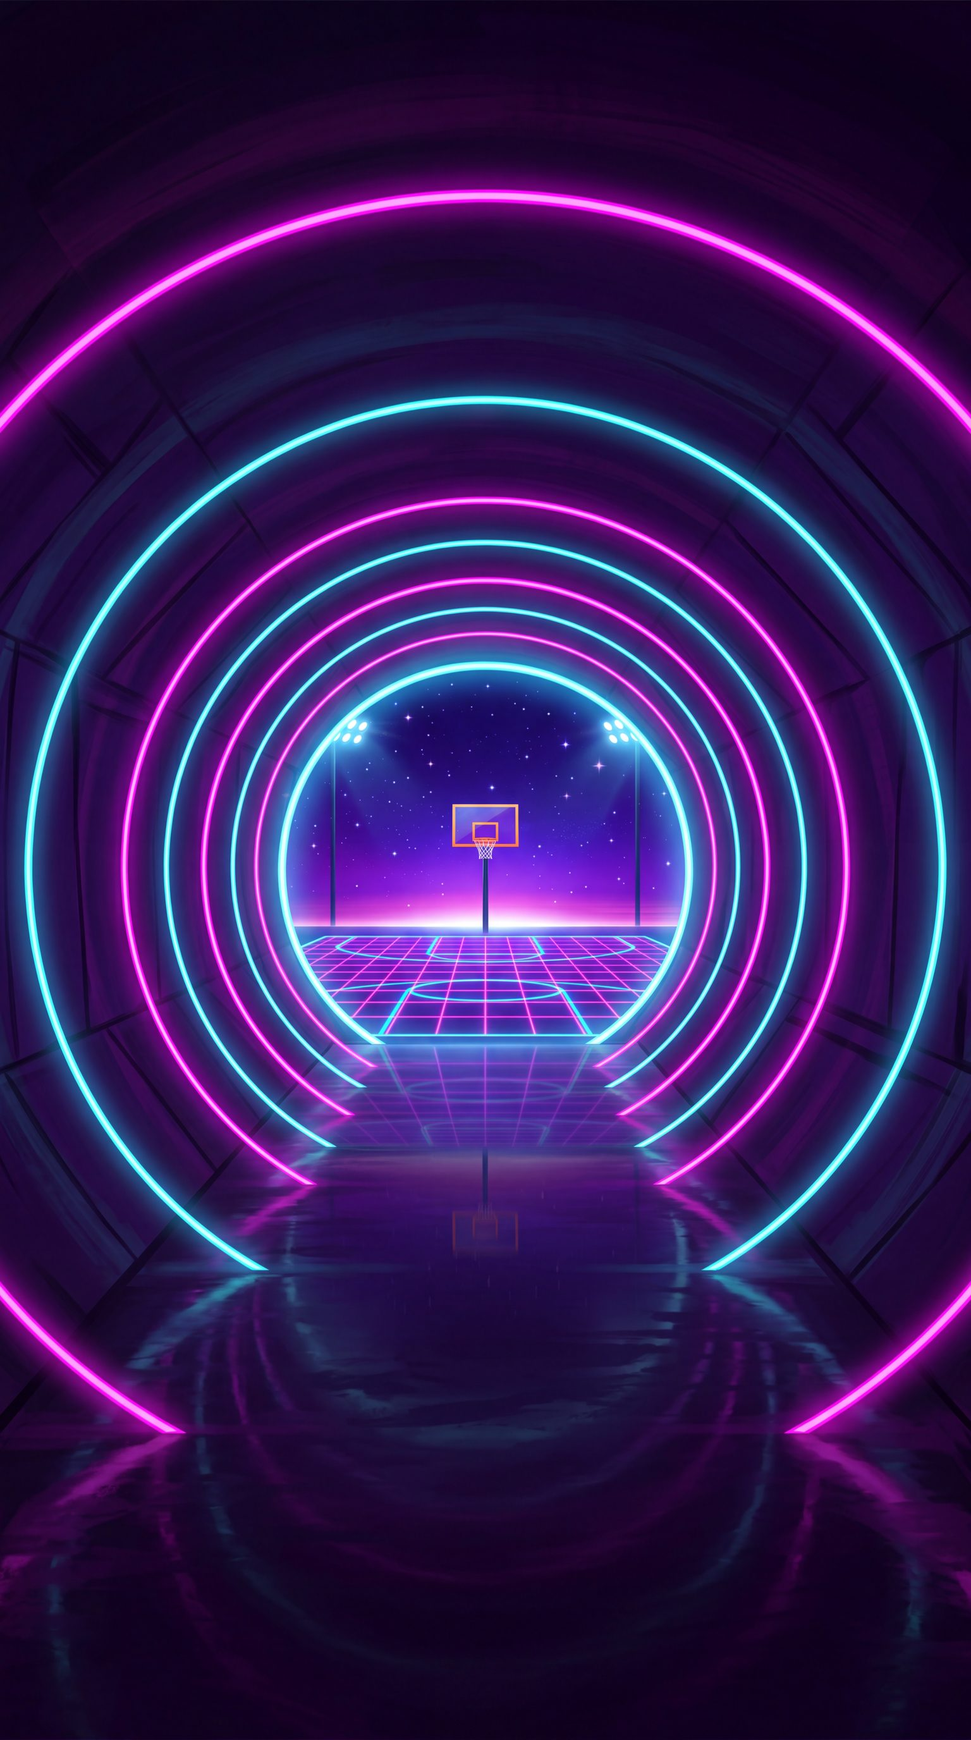
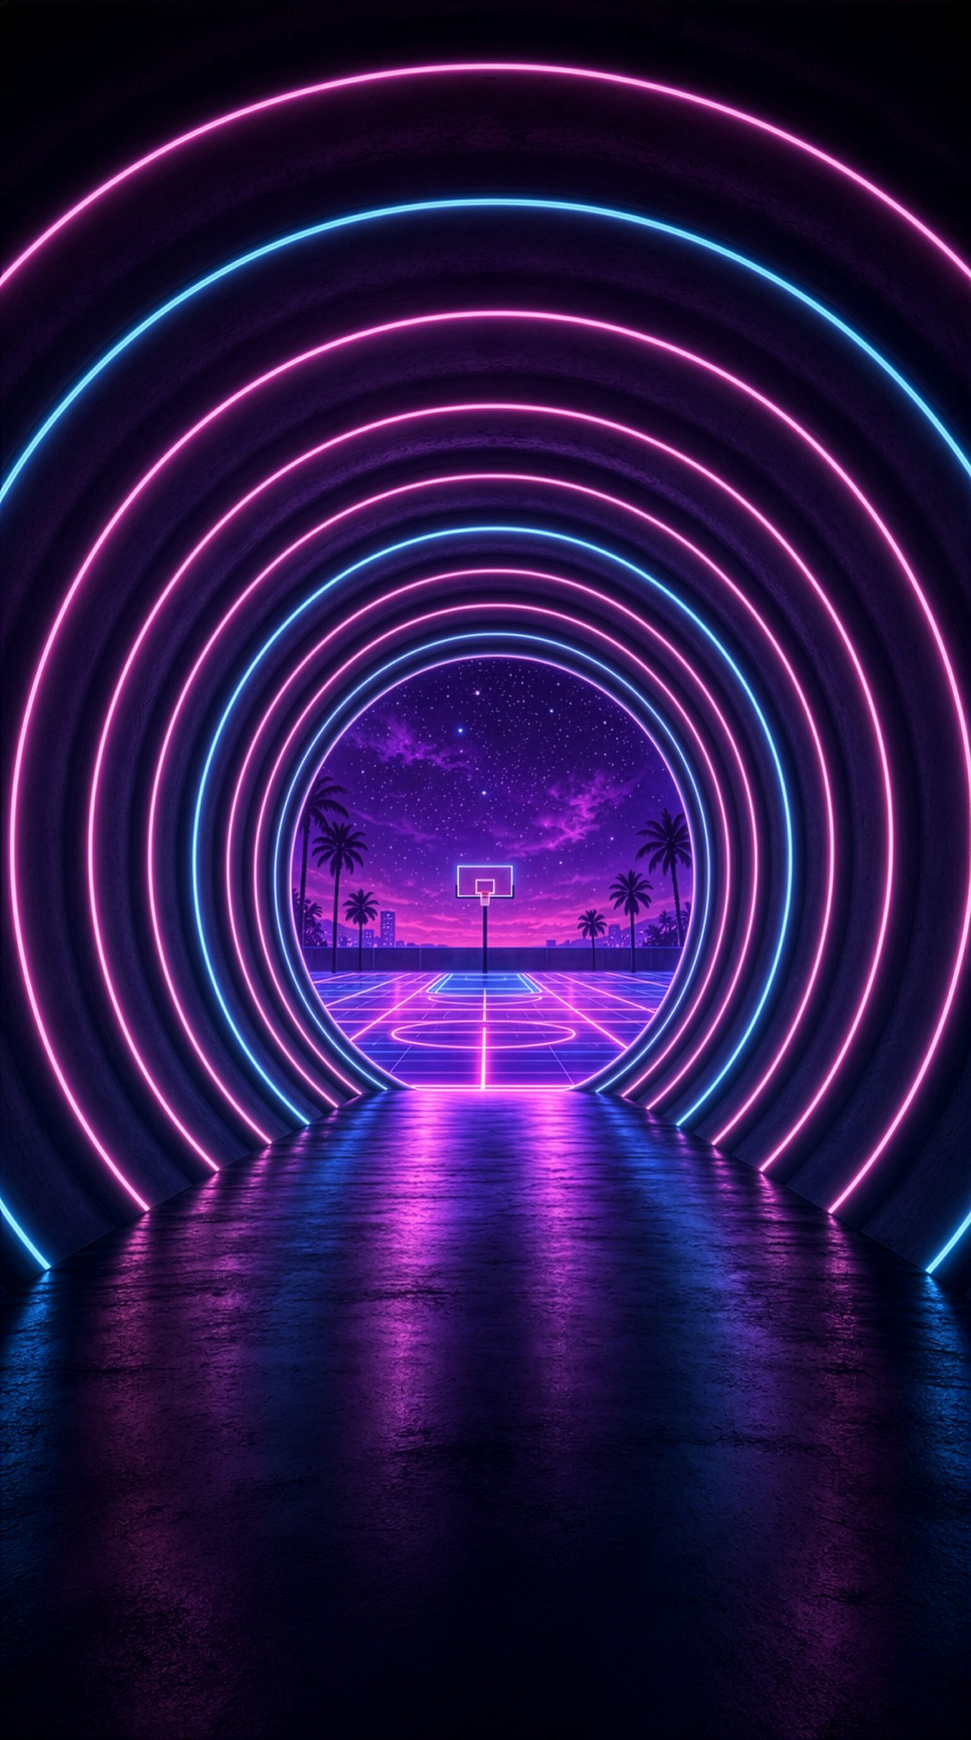
Tunnel round two: every slot at full size, the alts boarded
His fixed folder (19 files, all 3072 on the short side) replaces the
twelve interim preview-size tunnels. The sixteen files named for a slot
land as that slot's pick at the delivery standard; the three alts wait
on the round-two board, which shows WAS / NOW / ALT per slot with the
push trade-off in source pixels across the mouth. Record: COURT-SKINS
picks table, row 215, changelog, PLACES, lesson 1.3aa.

Claude-Session: https://claude.ai/code/session_01Y29K1DtgAMPnfoUHMesWe3

diff --git a/TODO.md b/TODO.md
@@ -80,7 +80,7 @@ with a note asking, never left out.
 | 103 | rows 18+19 | **Rebuild the gameplay screen from scratch.** What does a player need to KNOW and DO at each moment, surfaced clean, polished and intuitive | me | doing | Aaron 08-22 on five live screenshots: *"it's the whole gameplay visuals that need to be redone... it's unclear what's a button, what's a notification, I mean it's chaos... not being afraid to start from scratch."* Replaces items 4 and 5, which shipped 08-19 and did not fix it, and absorbs 102, the clipped action dock. Six named defects, the three open questions from the 08-22 comparison, and the moment-by-moment method are all in V0 row 32. **The option LIST goes to him before any option is built.** Related rows that should close when this lands: 34, 35, 36, 38, 41. **In flight 08-22:** the moment inventory is published (V0 row 32); the HUD is the first surface, with pause-as-symbol vs pause-as-word and the replay states on his desk at <https://claude.ai/code/artifact/0ef25906-9fb6-4352-9d1b-ee09b0c83b9f>, **RULED 08-22: A, the symbol; roomy inset; 64px on desktop; spent states approved.** Not yet shipped, deliberately: the phone dock holds only two controls, so shipping pause and replay before music, help and the coach have homes would strand them. The coach corner is the next pick, at <https://claude.ai/code/artifact/2a585c2e-0ff2-4905-8ee6-9f7076fe29a7>. HUD board: <https://claude.ai/code/artifact/0ef25906-9fb6-4352-9d1b-ee09b0c83b9f>. **SHIPPED 08-22: the in-game music button**, on his pick of B and resume-from-position. Gate `tools/music-check.mjs`, 23 checks a viewport, three sabotages. **SHIPPED 08-24: the two-control HUD as ruled** (pause symbol A, replay beside it with grey/orange states, roomy inset, 64px desktop), the ⋯ tray and the dock's ♪ and whistle retired with it; gate `tools/hud-check.mjs`, 24 checks, three sabotages, comparison at <https://claude.ai/code/artifact/a4ededa4-abfb-40ab-97fd-5d22c2a80bf3>. Still open in this item: the action dock/strip, the instruction line, the notification chaos, the pause-menu staircase and confirms. **Paused 08-24 on his direction:** the action-strip option list was shown and he answered with a bigger plan, *"I want to walk through full gameplay and build this the way I want it to be"*, AFTER the polish block (111) lands. The five named options and his coming alternatives go into that walkthrough **HIS ORDER, RULED 08-28** (*"I think the toss up should be part of the gameplay rebuild, and that's all"*, on the recommended order): this row is the SECOND thing on the road and it CARRIES THE TOSS-UP: rows 198 (the toss-up teaches by showing, not bullets) and 13 (the buzzers, comparison owed) ride inside this rebuild rather than queueing behind it, because they are the same screen at the same moment. 198 came up out of the after-the-twenty list to do it. **08-28, THE WALKTHROUGH BEGINS**: his 08-24 promise ("I want to walk through full gameplay and build this the way I want it to be") starts now, screen by screen, his protocol *"this is how we will work, step by step"* — he describes a piece, I confirm, he gives the next. Live capture: `design/GAMEPLAY-WALKTHROUGH-2026-08-28.md`. Nothing builds until a piece is confirmed AND he says build it. Stop 1 ruled: keep the toss-up "How it works" card, redesign for digestibility (folds into 198's replace-the-bullets ask). Stop 2 ruled: a NEW coach popup right after it offering a sample toss-up test run, **CPU and Local only, never online** (consistent with the standing netOn() coach law). Stop 3 CONFIRMED 08-28: nine beats (countdown explained first, both buzzers appear the instant the card does with bottom always meaning "you", the coach explains before the question types, the question types itself letter by letter, coach hands off to the buzzer, coach highlights the right answer so the sample can't be missed, result, "ready for the real thing?"). **His scoping ruling on the typewriter effect: buzz-race moments ONLY** (toss-up and the tip-off, which "works the exact same way"), *"nothing else is a timing competition so those can show up normally"* — every other question card keeps its current instant-show. Verified against the shipped game: `tuResolveAnswer` (game.js:6626) already sends a miss straight to the other side with no rebound question, which matches his mid-thought ruling exactly. Full capture: `design/GAMEPLAY-WALKTHROUGH-2026-08-28.md`. **08-28, the intro cinematic**: his ask (tunnel walk-out to a bright light, sky-to-court drop, center-court close-up with a ref between two players, into the confirmed toss-up beats, a Skip throughout) confirmed as medium split: *"source the art and you build the movement is correct."* A rough-pass preview shipped with stand-in art proving the technique, verified (zero errors, Skip interrupts correctly, reduced-motion completes): <https://claude.ai/code/artifact/569949f9-525e-4ac3-8289-5a27167a35fe>. His catch on the first pass, same day: the sky view cut to the side view ("I know the court can rotate so I thought it was possible") and he's right, so the demo was rebuilt as ONE continuous camera (the court a 3D plane tilting near-overhead to near side-on, figures counter-rotating as billboards, the buzzer beats playing OVER the landed side view) and republished at the same URL, verified again end to end. **RULED 08-28, the gate on further stops**: *"I want to build up to this point first and see if I am happy with the results before we move forward to doing more"* — the confirmed pieces (Stop 2's offer, Stop 3's nine beats, the buzz-race typewriter) get built into the real game on the branch for him to play and judge; the walkthrough pauses until he has. The cinematic stays a demo until he sources the art; Stop 1's redesign still owes its option round. **BUILT 08-29, on the branch**: the offer + all nine beats (coach module #tuSam, drill-shaped: own DOM, own veil, no seen-key burn on steps) and the typewriter on the real toss-up + tip-off reveals (typeInto, revealAt at type-start, buzz mid-type fast-forwards). Gate tools/sample-check.mjs (34 checks, netgate sabotage proven), fleet 43 gates green, audit PASS. A four-skeptic adversarial pass found three real bugs, all fixed: the CPU offer self-aborting on the brains-to-game handover and burning its key; the practice card not typing under its own freeze; online reduce-motion winning every race (online keeps the whole-card reveal now). One latent shipped bug fixed on the way: the jumbotron hide was a raw setTimeout while runTipoff rode fTimeout, so any freeze in that window let the coach teach a possession before the jump ball. FIVE FLAGS on his desk in design/GAMEPLAY-WALKTHROUGH-2026-08-28.md § BUILT 08-29 (real buzzer geometry vs the lesson · once-per-phone · CPU placement · run-again scope · online whole-card). **LIVE 08-30** on his word *"can we ship everything we have done so far live"*: main fast-forwarded 79 commits, Pages verified file by file (222 of 222 published files byte-identical to the tested build). **FLAGS ANSWERED 08-31** (session record BUILD § 6k): geometry law ruled onto row 13 and DESIGN § 8a; run-again ruled, skip-out filed as row 212; online whole-card locked in DESIGN § 8a; flag 2 RULED 08-31 in the next round (once-ever stays, his "I agree with you"); flag 3 shown again 08-31 as a three-frame CPU-road strip, still his. His direction: *"Then we carry on with the gameplay rebuild."* Sequence confirmed: sample, then the entrance cinematic (waiting on his sourced art), then the real jump ball typing over the landed side view. **THE DOME SHIPPED 08-31** (rows 13+214, changelog): all five flags ruled and the buzz races rebuilt whole: stacked domes, the sandwich, the loud buzz, the CPU road's own How-it-works card. Still riding this rebuild: 198 (Stop 1 digestibility), 212 (the practice skip-out), 215 (the tunnel art on his generations). |
 | 198 | — | **The toss-up teaches by showing, not bullets**: first run gets a brief slideshow or a sample toss-up in place of the bullet-point instructions | me | open | his ask 08-26: *"the toss up instructions should have a brief slideshow or sample toss up as the instructions or first time run, not bullet points to read"*; same show-don't-tell spirit as the rulebook redesign (110), the current bullets live in .tu-how **HIS ORDER, RULED 08-28** (*"I think the toss up should be part of the gameplay rebuild, and that's all"*, on the recommended order): **PART OF ROW 103**, his words: the toss-up belongs to the gameplay rebuild. Promoted out of the after-the-twenty list and parked directly under 103; it does not get its own turn, it gets designed inside that one, next to row 13. |
 | 212 | — | A way out of the practice mid-run: keep all nine beats, add a control that lets the player leave once they feel they have it (or bailed into it by accident) | me | open | **RULED 08-31** (flag 4): *"keep all nine, but introduce a button that allows the player to skip out of the process if they feel like they got it midway thru or if they restart in accident."* Changes how the practice looks, so the affordance gets an option list first; the medium question says check the shipped exits before building one (the coach cards' quiet `.ct-off` underline link, the `#skipveil` confirm). Leaving must release the freeze and hand back cleanly on both roads, and must NOT hand back the once-key (leaving midway is a choice, not the world moving on). Gate: sample-check grows the exit checks. |
-| 215 | — | **Generate the entrance tunnel art**, one per court family, both aspects, portrait upscaled 2x for the push-in | Aaron | blocked | His ask 08-31: *"for the entrance I need prompts... one prompt for each entry art, so one for blacktop, one for hardwood, etc."* Delivered same turn: five Firefly pastes (Hardwood, Blacktop, Neon, Cosmic, Underwater) in both aspects, every box measured under the 1024 cap, b-look swap lines included; Classic deliberately stays code-drawn (its family identity is the no-photo CLEAN court, flagged for his overrule). Home: design/COURT-SKINS.md § THE ENTRANCE TUNNELS. Copy-button page: <https://claude.ai/code/artifact/1b2693ce-1694-4f22-89a8-62c49f5447b6>. **THE ART LANDED 09-03**: his full four-model sitting on Drive, 86 takes across all 20 slots (5 families × 2 aspects × looks a AND b, the b-swaps generated too). Pulled, measured (41 of 86 clear the 2400px zoom floor; the raw Firefly and every gpt-image output sit under it), inspected for people/text/off-centre/softness, and boarded numbered for his picks: <https://claude.ai/code/artifact/70da2273-f14b-4b58-b81d-fa509ced78ae>. Two set-level catches on the board: most Blacktop gates are drawn closed and padlocked; every Hardwood take that shows the arena shows a crowd through the mouth. **HIS TWENTY PICKS 09-03** (changelog carries the numbers): all twenty landed in docs/play/assets/courts/ as tunnel-<family>-<look>-p/w.jpg, eight from 3072-class masters, **twelve INTERIM at 768x1376** (every gpt-image pick: the preview-size download) awaiting his full-size re-download from Firefly: hardwood-p-a, hardwood-p-b, hardwood-w-a, hardwood-w-b, blacktop-p-a, blacktop-p-b, blacktop-w-b, neon-p-b, neon-w-a, underwater-p-b, underwater-w-a, underwater-w-b. Pick 23 (blacktop-p-b) shows a closed, padlocked gate. The art is in place; the cinematic build (row 103) can start on it and the twelve swap in when they arrive. |
+| 215 | — | **Generate the entrance tunnel art**, one per court family, both aspects, portrait upscaled 2x for the push-in | Aaron | blocked | His ask 08-31: *"for the entrance I need prompts... one prompt for each entry art, so one for blacktop, one for hardwood, etc."* Delivered same turn: five Firefly pastes (Hardwood, Blacktop, Neon, Cosmic, Underwater) in both aspects, every box measured under the 1024 cap, b-look swap lines included; Classic deliberately stays code-drawn (its family identity is the no-photo CLEAN court, flagged for his overrule). Home: design/COURT-SKINS.md § THE ENTRANCE TUNNELS. Copy-button page: <https://claude.ai/code/artifact/1b2693ce-1694-4f22-89a8-62c49f5447b6>. **THE ART LANDED 09-03**: his full four-model sitting on Drive, 86 takes across all 20 slots (5 families × 2 aspects × looks a AND b, the b-swaps generated too). Pulled, measured (41 of 86 clear the 2400px zoom floor; the raw Firefly and every gpt-image output sit under it), inspected for people/text/off-centre/softness, and boarded numbered for his picks: <https://claude.ai/code/artifact/70da2273-f14b-4b58-b81d-fa509ced78ae>. Two set-level catches on the board: most Blacktop gates are drawn closed and padlocked; every Hardwood take that shows the arena shows a crowd through the mouth. **HIS TWENTY PICKS 09-03** (changelog carries the numbers): all twenty landed in docs/play/assets/courts/ as tunnel-<family>-<look>-p/w.jpg, eight from 3072-class masters, **twelve INTERIM at 768x1376** (every gpt-image pick: the preview-size download) awaiting his full-size re-download from Firefly: hardwood-p-a, hardwood-p-b, hardwood-w-a, hardwood-w-b, blacktop-p-a, blacktop-p-b, blacktop-w-b, neon-p-b, neon-w-a, underwater-p-b, underwater-w-a, underwater-w-b. Pick 23 (blacktop-p-b) shows a closed, padlocked gate. The art is in place; the cinematic build (row 103) can start on it and the twelve swap in when they arrive. **ROUND TWO LANDED 09-04**: his "fixed images and some alts" folder (19 files, every one 3072 on the short side) swapped all twelve interim files out; every slot now comes from a full-size master. Sixteen files were named for slots and landed as those picks (seven are the first-round take at full size, nine are new runs in the same look; 92 opens the padlocked gate on blacktop-p-b; neon_p_a came in as take 35, not his pick 36). Three alts (94, 103, 105) sit unlanded on the round-two board, which shows WAS / NOW / ALT per slot with the push trade-off (the new widescreen tunnels are deep, mouth about a tenth of the frame, so a full push ends soft): <https://claude.ai/code/artifact/4d0cc226-cbae-4a7b-bb7b-8aaadd1cb535>. Open on him: confirm 96 (take 35) for neon-p-a, and whether any deep-tunnel slot goes back to its WAS picture or over to an alt. |
 | 34 | D4 | Right and wrong are a whisper | me | open | |
 | 35 | D5 | No shot on offence | me | open | |
 | 36 | D6 | Defence does not announce itself | me | open | |

diff --git a/design/COURT-SKINS.md b/design/COURT-SKINS.md
@@ -512,32 +512,44 @@ Wide 16:9 scene: Inside a dark sunken stone-and-glass tunnel on the seafloor at 
 ```
 **Underwater b-look swap (Sunken Run (b))**: replace "sunlit sunken basketball court" with "moonlit sunken basketball court in darker water".
 
-## THE TUNNEL PICKS (2026-09-03, Aaron, off the Tunnel Round board)
+## THE TUNNEL PICKS (2026-09-03 round one, 2026-09-04 round two, Aaron)
 
 | slot | take | model | landed | status |
 |---|---|---|---|---|
-| hardwood-p-a | 4 | gpt-image | 768x1376, 117KB | INTERIM native (under floor) |
-| hardwood-p-b | 6 | gpt-image | 768x1376, 116KB | INTERIM native (under floor) |
-| hardwood-w-a | 12 | gpt-image | 1376x768, 94KB | INTERIM native (under floor) |
-| hardwood-w-b | 14 | gpt-image | 1376x768, 113KB | INTERIM native (under floor) |
-| blacktop-p-a | 19 | gpt-image | 768x1376, 156KB | INTERIM native (under floor) |
-| blacktop-p-b | 23 | gpt-image | 768x1376, 202KB | INTERIM native (under floor) |
-| blacktop-w-a | 27 | Firefly | 2752x1536, 453KB | downsampled from master |
-| blacktop-w-b | 31 | gpt-image | 1376x768, 189KB | INTERIM native (under floor) |
-| neon-p-a | 36 | Gemini Flash | 1536x2752, 350KB | downsampled from master |
-| neon-p-b | 39 | gpt-image | 768x1376, 154KB | INTERIM native (under floor) |
-| neon-w-a | 45 | gpt-image | 1376x768, 143KB | INTERIM native (under floor) |
-| neon-w-b | 49 | Firefly (1) | 2752x1536, 400KB | downsampled from master |
+| hardwood-p-a | 87 (= take 4 at full size) | gpt-image | 1536x2752, 356KB | round two, from 3072-class master |
+| hardwood-p-b | 88 (= take 6 at full size) | gpt-image | 1536x2752, 352KB | round two, from 3072-class master |
+| hardwood-w-a | 89 (= take 12 at full size) | gpt-image | 2752x1536, 336KB | round two, from 3072-class master |
+| hardwood-w-b | 90 (= take 14 at full size) | gpt-image | 2752x1536, 373KB | round two, from 3072-class master |
+| blacktop-p-a | 91 (new run, replaces 19) | gpt-image (new run) | 1536x2752, 394KB | round two, from 3072-class master |
+| blacktop-p-b | 92 (new run, replaces 23) | gpt-image (new run) | 1536x2752, 542KB | round two, from 3072-class master |
+| blacktop-w-a | 93 (new run, replaces 27) | Firefly (new run) | 2752x1536, 330KB | round two, from 3072-class master |
+| blacktop-w-b | 95 (new run, replaces 31) | gpt-image (new run) | 2752x1536, 602KB | round two, from 3072-class master |
+| neon-p-a | 96 (= take 35 at full size, NOT pick 36) | gpt-image | 1536x2752, 438KB | round two, from 3072-class master |
+| neon-p-b | 97 (= take 39 at full size) | gpt-image | 1536x2752, 436KB | round two, from 3072-class master |
+| neon-w-a | 98 (new run, replaces 45) | gpt-image (new run) | 2752x1536, 506KB | round two, from 3072-class master |
+| neon-w-b | 99 (new run, replaces 49) | gpt-image (new run) | 2752x1536, 470KB | round two, from 3072-class master |
 | cosmic-p-a | 51 | Gemini Flash | 1536x2752, 406KB | downsampled from master |
 | cosmic-p-b | 55 | Gemini Flash | 1536x2752, 356KB | downsampled from master |
 | cosmic-w-a | 62 | Gemini Flash | 2752x1536, 454KB | downsampled from master |
 | cosmic-w-b | 64 | Gemini Flash (1) | 2752x1536, 438KB | downsampled from master |
-| underwater-p-a | 73 | Gemini Flash | 1536x2752, 376KB | downsampled from master |
-| underwater-p-b | 76 | gpt-image | 768x1376, 178KB | INTERIM native (under floor) |
-| underwater-w-a | 80 | gpt-image | 1376x768, 190KB | INTERIM native (under floor) |
-| underwater-w-b | 83 | gpt-image | 1376x768, 180KB | INTERIM native (under floor) |
+| underwater-p-a | 100 (new run, replaces 73) | Gemini Flash (new run) | 1536x2752, 525KB | round two, from 3072-class master |
+| underwater-p-b | 101 (= take 76 at full size) | gpt-image | 1536x2752, 507KB | round two, from 3072-class master |
+| underwater-w-a | 102 (new run, replaces 80) | gpt-image (new run) | 2752x1536, 661KB | round two, from 3072-class master |
+| underwater-w-b | 104 (new run, replaces 83) | gpt-image (new run) | 2752x1536, 644KB | round two, from 3072-class master |
 
 Delivery standard: 1536px short side, JPEG q82, double the shipped court
-art. INTERIM rows are the twelve gpt-image picks that exist only at the
-768x1376 preview download; they swap in at full size when he re-downloads
-them from Firefly (open the image full-screen, then Download).
+art. Every slot now comes from a 3072-class master; the twelve INTERIM
+preview-size files are gone.
+
+Round two (2026-09-04, his "fixed images and some alts" folder, 19 files,
+all 3072 on the short side): the sixteen files he named for a slot were
+landed as that slot's pick. Seven are the first-round take at full size
+(87, 88, 89, 90, 96, 97, 101; 96 is take 35, not his pick 36). Nine are
+new generations in the same look (91, 92, 93, 95, 98, 99, 100, 102, 104);
+92 clears the padlocked gate on blacktop-p-b, and the widescreen ones are
+much deeper tunnels with a small mouth (a tenth of the frame, 440 to 700
+source pixels across: a push that goes all the way in ends soft). Three
+alts sit on the board unlanded: 94 (blacktop-w-a), 103 and 105
+(underwater-w-a, underwater-w-b). Board, with the WAS picture per slot:
+<https://claude.ai/code/artifact/4d0cc226-cbae-4a7b-bb7b-8aaadd1cb535>.
+Any slot goes back to its WAS picture or over to an alt on his word.

diff --git a/BUILD.md b/BUILD.md
@@ -3934,6 +3934,23 @@ HOLDS a beat before play continues.
 
 ## 7 · Changelog
 
+- **2026-09-04 · TUNNEL ROUND TWO: EVERY SLOT AT FULL SIZE.** His
+  "fixed images and some alts" folder came in as 19 files, all 3072 on
+  the short side (every byte matched Drive's listing again). The sixteen
+  he named for a slot landed as that slot's pick at the delivery
+  standard, and the twelve INTERIM preview-size files are gone: seven
+  are the first-round take at full size (87, 88, 89, 90, 96, 97, 101),
+  nine are new runs in the same look (91, 92, 93, 95, 98, 99, 100, 102,
+  104). Two things he should know landed under his filenames: 92 opens
+  the padlocked gate on blacktop-p-b, and neon_p_a is take 35 at full
+  size, not his round-one pick 36. The three alts (94, 103, 105) are on
+  the board unlanded, and each slot shows WAS / NOW / ALT with the push
+  trade-off measured in source pixels across the mouth: the new deep
+  widescreen tunnels have a mouth about a tenth of the frame, 440 to 700
+  pixels, so a push that goes all the way in ends soft where the
+  round-one pictures (a third of the frame) stay sharp. Board:
+  <https://claude.ai/code/artifact/4d0cc226-cbae-4a7b-bb7b-8aaadd1cb535>.
+
 - **2026-09-03 · THE TUNNEL ROUND: AARON'S TWENTY PICKS, LANDED.** His
   sitting came in as 86 takes over 20 slots; the board numbered every take
   for good and he picked one per slot: hardwood-p-a=4, hardwood-p-b=6, hardwood-w-a=12, hardwood-w-b=14, blacktop-p-a=19, blacktop-p-b=23, blacktop-w-a=27, blacktop-w-b=31, neon-p-a=36, neon-p-b=39, neon-w-a=45, neon-w-b=49, cosmic-p-a=51, cosmic-p-b=55, cosmic-w-a=62, cosmic-w-b=64, underwater-p-a=73, underwater-p-b=76, underwater-w-a=80, underwater-w-b=83. All twenty landed in

diff --git a/AI-LEARNINGS.md b/AI-LEARNINGS.md
@@ -3909,3 +3909,21 @@ sabotage exists to catch in checks.
   device's keyframes kept re-applying its skew every frame. When a
   device is retired, grep for its ANIMATIONS too; a keyframe is a style
   writer that survives the rule you deleted.
+
+### 1.3aa A file named for the slot is not proof of which picture it is
+
+Round two of the tunnel art arrived as sixteen files named by slot
+("neon_p_a.jpg"). Fingerprinting every file against the 86-take inventory
+before landing showed seven were the picked take at full size, nine were
+new generations, and one (neon_p_a) was take 35 when the pick was 36.
+Landing by filename alone would have shipped a different picture under
+his pick number, with the record saying otherwise.
+
+- When a delivery names the slot, still identify the picture: match it
+  against what is already on record (a 32px normalised fingerprint is
+  enough to separate "same take at full size" from "new run"), then say
+  in the record which it was.
+- An automated measurement that is wrong on half the set is not a
+  measurement. The mouth-width script read the ringed and fenced
+  tunnels as no mouth at all; the board carries eyeballed figures
+  labelled as eyeballed rather than script output labelled as measured.

diff --git a/PLACES.md b/PLACES.md
@@ -236,6 +236,7 @@ files stay on Drive until picked, then land in docs/play/assets/courts/.
 | What | Where |
 |---|---|
 | **The tunnel prompts** | https://claude.ai/code/artifact/1b2693ce-1694-4f22-89a8-62c49f5447b6 |
+| **Tunnel Round Two** (WAS / NOW / ALT per slot, the push trade-off) | https://claude.ai/code/artifact/4d0cc226-cbae-4a7b-bb7b-8aaadd1cb535 |
 
 Source is `design/COURT-SKINS.md` § THE ENTRANCE TUNNELS (added 08-31);
 one Firefly paste per court family in both aspects, every box measured
